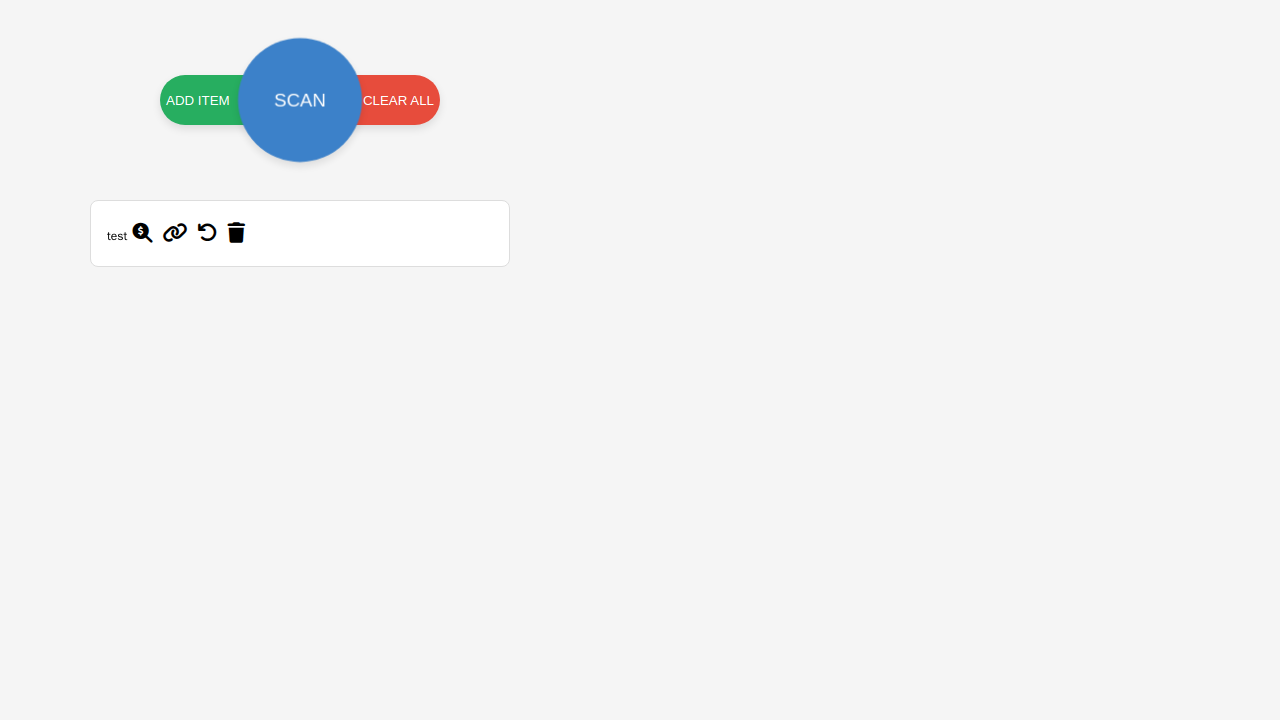
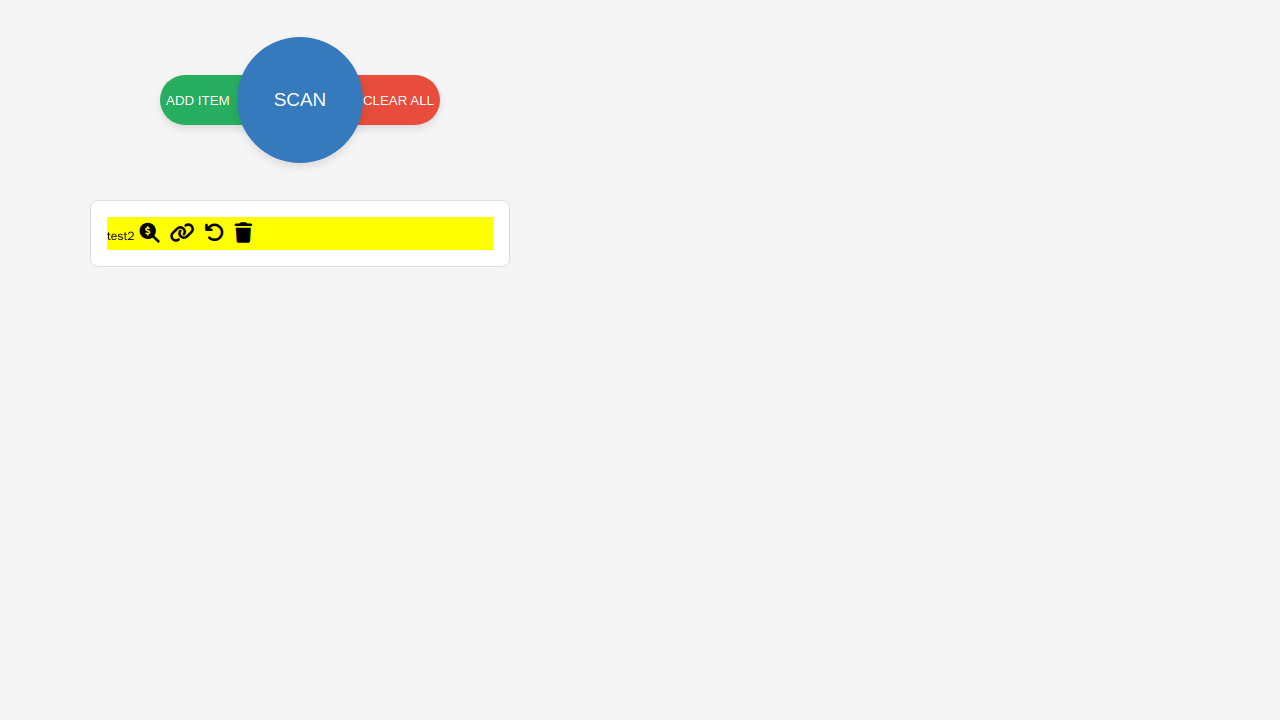
Rename test and add load to fixure

Changed region(s): [[0.0625, 0.275, 0.4062, 0.3667], [0.2188, 0.1222, 0.25, 0.1528]]

diff --git a/testing/test_scan.ts b/testing/test_scan.ts
@@ -14,6 +14,7 @@ fs.readdirSync(TEST_PATH).forEach((test_id) => {
     page,
     extensionId,
     testInfo,
+    loadData,
   }) => {
     // Get the test info
     const info = testInfo(testPath).test_info;
@@ -25,34 +26,14 @@ fs.readdirSync(TEST_PATH).forEach((test_id) => {
     const alert_value = Number(info.expected.replace("$", "")) + 10;
 
     // Add value via storage api
-    await page.evaluate(
-      ({ testPath, url, xpath, expected, alert_value }) => {
-        return new Promise((resolve) => {
-          chrome.storage.sync.set(
-            {
-              [crypto.randomUUID()]: {
-                title: "test",
-                url: `file://${testPath}/page.html`,
-                xpath: xpath,
-                previousValue: expected,
-                alertValue: alert_value,
-                shouldAlert: false,
-              },
-            },
-            () => {
-              resolve();
-            },
-          );
-        });
-      },
-      {
-        testPath: testPath,
-        url: info.url,
-        xpath: info.xpath,
-        expected: info.expected,
-        alert_value: alert_value,
-      },
-    );
+    await loadData(page, {
+      title: "test2",
+      url: testPath,
+      xpath: info.xpath,
+      previousValue: info.expected,
+      alertValue: alert_value,
+      shouldAlert: info.shouldAlert,
+    });
 
     // Click the scan button
     await page.click("#scan");

diff --git a/testing/fixtures.ts b/testing/fixtures.ts
@@ -8,6 +8,7 @@ export const test = base.extend<{
   context: BrowserContext;
   extensionId: string;
   testInfo: (path: string) => { inputFolders: string[] };
+  LoadData: (page: any, data: object) => {};
 }>({
   // Get page context
   context: async ({}, use) => {
@@ -44,6 +45,37 @@ export const test = base.extend<{
     };
 
     await use(getTestInfo);
+  },
+
+  // Load data via storage api
+  loadData: async ({}, use) => {
+    const loadData = async (page: any, data: object) => {
+      await page.evaluate(
+        ({ data }) => {
+          return new Promise((resolve) => {
+            chrome.storage.sync.set(
+              {
+                [crypto.randomUUID()]: {
+                  title: data.title,
+                  url: `file://${data.url}/page.html`,
+                  xpath: data.xpath,
+                  previousValue: data.expected,
+                  alertValue: data.alertValue,
+                  shouldAlert: data.shouldAlert,
+                },
+              },
+              () => {
+                resolve();
+              },
+            );
+          });
+        },
+        {
+          data: data,
+        },
+      );
+    };
+    await use(loadData);
   },
 });
 export const expect = test.expect;

diff --git a/playwright.config.ts b/playwright.config.ts
@@ -2,5 +2,5 @@ const { defineConfig } = require("@playwright/test");
 
 export default defineConfig({
   testDir: "testing",
-  testMatch: "test2.ts",
+  testMatch: "test_scan.ts",
 });
